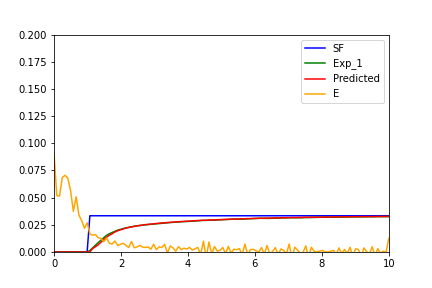
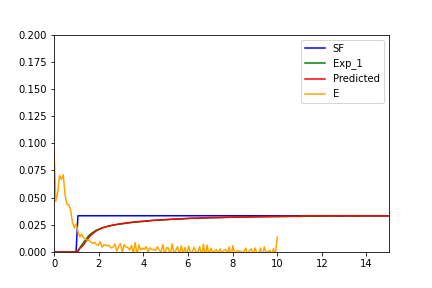
Loss arrangement

diff --git a/lib/nRTD/rtd_fitting.py b/lib/nRTD/rtd_fitting.py
@@ -1,3 +1,11 @@
+#!/usr/bin/env python3
+# -*- coding: utf-8 -*-
+"""
+Created on Wed Apr 24 21:50:14 2024
+
+@author: tuanaoyuncu
+"""
+
 from typing import Any, Optional
 import torch
 import lightning.pytorch as pl
@@ -41,12 +49,24 @@ class RTDModule(pl.LightningModule):
     def forward(self, X: torch.Tensor) -> torch.Tensor:
         return self.net(X)
 
+    # def training_step(self, batch, batch_idx):
+    #     X, y = batch
+    #     y_hat = self(X)
+    #     loss = torch.nn.functional.mse_loss(y_hat, y)
+    #     self.log("train/loss", loss)
+    #     return loss
     def training_step(self, batch, batch_idx):
         X, y = batch
-        y_hat = self(X)
-        loss = torch.nn.functional.mse_loss(y_hat, y)
+        X_arranged = X[:, :, :50]
+        y_arranged = y[:, :, :50]
+        y_hat_arranged = self(X_arranged)
+        y_hat_arranged = y_hat_arranged[:, :, :50]
+        loss = torch.nn.functional.mse_loss(y_hat_arranged, y_arranged)
         self.log("train/loss", loss)
         return loss
+
+
+
 
     def validation_step(self, batch, batch_idx):
         X, y = batch

diff --git a/Data/Data_Scripts_Evaluation/0001_C_001/H_085_C1_S_009/Convolution/TOA_MGA_2024_Convolution_Training_S_009.py b/Data/Data_Scripts_Evaluation/0001_C_001/H_085_C1_S_009/Convolution/TOA_MGA_2024_Convolution_Training_S_009.py
@@ -15,18 +15,17 @@ import glob
 
 n_disc = 377
 t_input = torch.linspace(0, 31, n_disc)
-c_in = torch.zeros((16, 1, n_disc))
+c_in = torch.zeros((20, 1, n_disc))
 c_in[::2, :, t_input > 1] = 0.05
 c_in[1::2, :, t_input < 1] = 0.05
-
 file_numbers = range(1, 21)
 c_out_list = []
 t_conv_list = []
 # file_numbers = range(1, 21, 2)
 
 for file_num in file_numbers:
-    if file_num in (6):
-          continue
+    #if file_num in (6,):
+     #     continue
     t_conv_path = f"/Users/tuanaoyuncu/Documents/GitHub/nRTD/Data/0001/C_001/H_085_C1/S_009_C1_001/TOA_MGA_20231020_009_{file_num:06d}_t_processed.npy"
     # t_conv_path = f"Data/C_001/H_085_C1/S_009_C1/TOA_MGA_20231020_009_{file_num:06d}_t_processed.npy"
     c_out_path = f"/Users/tuanaoyuncu/Documents/GitHub/nRTD/Data/0001/C_001/H_085_C1/S_009_C1_001/TOA_MGA_20231020_009_{file_num:06d}_x_processed.npy"
@@ -111,7 +110,7 @@ wandb_logger = pl_loggers.WandbLogger(
 
 trainer = pl.Trainer(
     accelerator="auto",
-    max_epochs=1000,
+    max_epochs=10000,
     logger=wandb_logger, deterministic=True
 )
 

diff --git a/Data/Data_Scripts_Evaluation/0001_C_002/H_085_C2_S_012/Convolution/TOA_MGA_2024_Convolution_Training_S_012.py b/Data/Data_Scripts_Evaluation/0001_C_002/H_085_C2_S_012/Convolution/TOA_MGA_2024_Convolution_Training_S_012.py
@@ -20,8 +20,8 @@ import numpy as np
 import wandb
 
 
-n_disc = 352
-t_input = torch.linspace(0, 36, n_disc)
+n_disc = 364
+t_input = torch.linspace(0, 41, n_disc)
 c_in = torch.zeros((20, 1, n_disc))
 c_in[::2, :, t_input > 1] = 0.05
 c_in[1::2, :, t_input < 1] = 0.05
@@ -64,7 +64,7 @@ else:
 # print(f"t_conv size: {t_conv.size()}")
 
 model = RTDModule(
-    kernel_size=147,
+    kernel_size=135,
     learning_rate=10e-3,
     use_scheduler=True,
     scheduler_kwargs={"factor": 0.5, "patience": 80},
@@ -93,8 +93,8 @@ plt.plot(
 )
 plt.plot(t_E, E, label="E", color="orange")
 plt.legend()
-plt.xlim((0, 15))
-plt.ylim((0, 0.2))
+plt.xlim((0, 20))
+plt.ylim((0, 0.1))
 plt.show()
 
 print(model(c_in).size())
@@ -154,8 +154,8 @@ plt.plot(
     color="red",
 )
 plt.plot(t_E, E, label="E", color="orange")
-plt.xlim((0, 15))
-plt.ylim((0, 0.2))
+plt.xlim((0, 20))
+plt.ylim((0, 0.1))
 plt.legend()
 
 # fig = plt.gcf()
@@ -165,5 +165,5 @@ plt.legend()
 
 # wandb.finish()
 
-plt.savefig("Figure_002_S_012_ks")
+plt.savefig("Figure_005_S_012_15")
 plt.show()

diff --git a/Data/Data_Scripts_Evaluation/0001_C_001/H_185_C1_S_007/Convolution/Convolution/TOA_MGA_2024_Convolution_Training_S_007.py b/Data/Data_Scripts_Evaluation/0001_C_001/H_185_C1_S_007/Convolution/Convolution/TOA_MGA_2024_Convolution_Training_S_007.py
@@ -103,14 +103,19 @@ ds = TensorDataset(c_in, c_out)
 dl = DataLoader(ds, batch_size=20, shuffle=True)
 
 # set up the logger
-wandb_logger = pl_loggers.WandbLogger(
-    project="nRTD",
-    log_model=True)
+# wandb_logger = pl_loggers.WandbLogger(
+#     project="nRTD",
+#     log_model=True)
+
+# trainer = pl.Trainer(
+#     accelerator="auto",
+#     max_epochs=10000,
+#     logger=wandb_logger, deterministic=True
+# )
 
 trainer = pl.Trainer(
     accelerator="auto",
-    max_epochs=10000,
-    logger=wandb_logger, deterministic=True
+    max_epochs=10000,deterministic=True
 )
 
 # trainer.fit(model, train_dl)
@@ -118,7 +123,7 @@ trainer.fit(model, dl)
 # adds an epoch at the end to calculate the final loss at the traineing end
 # trainer.test(model, test_dl)
 trainer.test(model, dl)  ### check it maybe you will see changes??
-wandb.finish()
+# wandb.finish()
 ##################
 # Postprocessing #
 ##################

diff --git a/Data/Data_Scripts_Evaluation/0003_C_004/H_080_C4_0003/S_038/TOA_MGA_2024_Convolution_Training_S_038.py b/Data/Data_Scripts_Evaluation/0003_C_004/H_080_C4_0003/S_038/TOA_MGA_2024_Convolution_Training_S_038.py
@@ -72,7 +72,7 @@ model = RTDModule(
 c_conv = model(c_in)
 E = model.net.E[0]
 t_E = torch.linspace(0, 25, model.kernel_size)
-j = 2
+j = 4
 
 plt.figure()
 plt.plot(t_input, c_in[j, 0, :].numpy(), label="SF", color="blue")
@@ -117,7 +117,7 @@ wandb_logger = pl_loggers.WandbLogger(
 
 trainer = pl.Trainer(
     accelerator="auto",
-    max_epochs=10000,
+    max_epochs=15000,
     logger=wandb_logger, deterministic=True
 )
 
@@ -154,7 +154,7 @@ plt.plot(
     color="red",
 )
 plt.plot(t_E, E, label="E", color="orange")
-plt.xlim((0, 25))
+plt.xlim((0, 35))
 plt.ylim((0, 0.2))
 plt.legend()
 
@@ -165,5 +165,5 @@ plt.legend()
 
 # wandb.finish()
 
-plt.savefig("Figure_002_S_038_25ste")
+plt.savefig("Figure_007_S_038")
 plt.show()

diff --git a/Data/Data_Scripts_Evaluation/0001_C_001/H_135_C1_S_010/Convolution/TOA_MGA_2024_Convolution_Training_S_010.py b/Data/Data_Scripts_Evaluation/0001_C_001/H_135_C1_S_010/Convolution/TOA_MGA_2024_Convolution_Training_S_010.py
@@ -85,7 +85,7 @@ plt.plot(
 )
 plt.plot(t_E, E, label="E", color="orange")
 plt.legend()
-plt.xlim((0, 10))
+plt.xlim((0, 15))
 plt.ylim((0, 0.2))
 plt.show()
 
@@ -109,7 +109,7 @@ wandb_logger = pl_loggers.WandbLogger(
 
 trainer = pl.Trainer(
     accelerator="auto",
-    max_epochs=15000,
+    max_epochs=10000,
     logger=wandb_logger, deterministic=True
 )
 
@@ -146,7 +146,7 @@ plt.plot(
     color="red",
 )
 plt.plot(t_E, E, label="E", color="orange")
-plt.xlim((0, 10))
+plt.xlim((0, 15))
 plt.ylim((0, 0.2))
 plt.legend()
 
